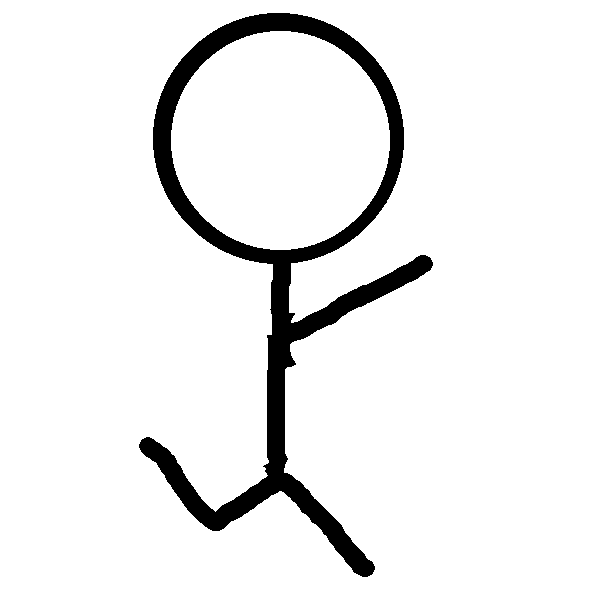
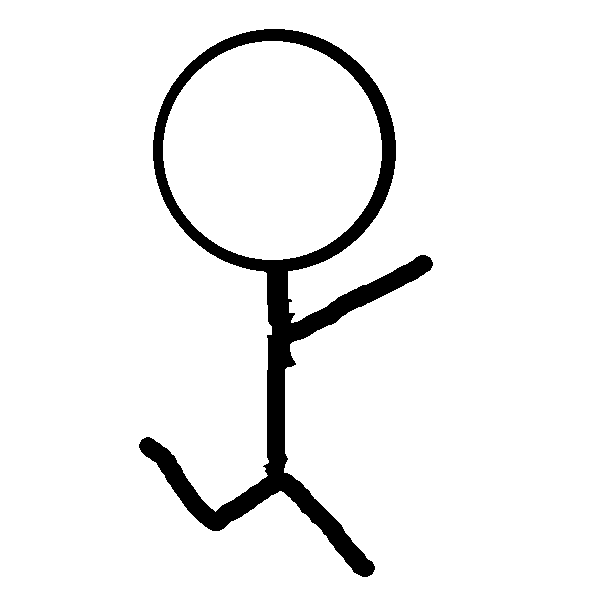
ver5.8
リザルト画面からタイトル画面へのSpaceキーの入力を持ち込まないようにし、すぐに遷移しなくした

Changed region(s): [[0.24, 0.0, 0.69, 0.54]]

diff --git a/DxLibTemplate2017/OutGameInputManager.cpp b/DxLibTemplate2017/OutGameInputManager.cpp
@@ -15,19 +15,24 @@ OutGameInputManager::~OutGameInputManager() {
 }
 
 void OutGameInputManager::TitleInput() {
-	GetHitKeyStateAll(_keyState);
-	if (Pad::IsPress(PAD_INPUT_UP) || _keyState[KEY_INPUT_UP]){
+	for (int i = 0; i < 256; i++) {
+		_prevKeyState[i] = _currentKeyState[i];
+	}
+	GetHitKeyStateAll(_currentKeyState);
+	bool isSpaceTrigger = (_currentKeyState[KEY_INPUT_SPACE] == 1 && _prevKeyState[KEY_INPUT_SPACE] == 0);
+	Pad::Update();
+	if (Pad::IsTrigger(PAD_INPUT_UP) || _currentKeyState[KEY_INPUT_UP]){
 		_titleSelectingValue = 0;
 		_gameStartButton->SwitchButtonColor(true);
 		_exitButton->SwitchButtonColor(false);
 	}
-	else if (Pad::IsPress(PAD_INPUT_DOWN) || _keyState[KEY_INPUT_DOWN]) {
+	else if (Pad::IsTrigger(PAD_INPUT_DOWN) || _currentKeyState[KEY_INPUT_DOWN]) {
 		_titleSelectingValue = 1;
 		_gameStartButton->SwitchButtonColor(false);
 		_exitButton->SwitchButtonColor(true);
 	}
 
-	if (Pad::IsPress(PAD_INPUT_1) || _keyState[KEY_INPUT_SPACE]) {
+	if (Pad::IsTrigger(PAD_INPUT_1) || isSpaceTrigger) {
 		switch (_titleSelectingValue)
 		{
 		case 0:
@@ -42,19 +47,24 @@ void OutGameInputManager::TitleInput() {
 
 
 void OutGameInputManager::ResultInput() {
-	GetHitKeyStateAll(_keyState);
-	if (Pad::IsPress(PAD_INPUT_UP) || _keyState[KEY_INPUT_UP]) {
+	for (int i = 0; i < 256; i++) {
+		_prevKeyState[i] = _currentKeyState[i];
+	}
+	GetHitKeyStateAll(_currentKeyState);
+	bool isSpaceTrigger = (_currentKeyState[KEY_INPUT_SPACE] == 1 && _prevKeyState[KEY_INPUT_SPACE] == 0);
+	Pad::Update();
+	if (Pad::IsTrigger(PAD_INPUT_UP) || _currentKeyState[KEY_INPUT_UP]) {
 		_resultSelectingValue = 0;
 		_returnTitleButton->SwitchButtonColor(true);
 		_exitButton->SwitchButtonColor(false);
 	}
-	else if (Pad::IsPress(PAD_INPUT_DOWN) || _keyState[KEY_INPUT_DOWN]) {
+	else if (Pad::IsTrigger(PAD_INPUT_DOWN) || _currentKeyState[KEY_INPUT_DOWN]) {
 		_resultSelectingValue = 1;
 		_returnTitleButton->SwitchButtonColor(false);
 		_exitButton->SwitchButtonColor(true);
 	}
 
-	if (Pad::IsPress(PAD_INPUT_1) || _keyState[KEY_INPUT_SPACE]) {
+	if (Pad::IsPress(PAD_INPUT_1) ||isSpaceTrigger) {
 		switch (_resultSelectingValue)
 		{
 		case 0:
